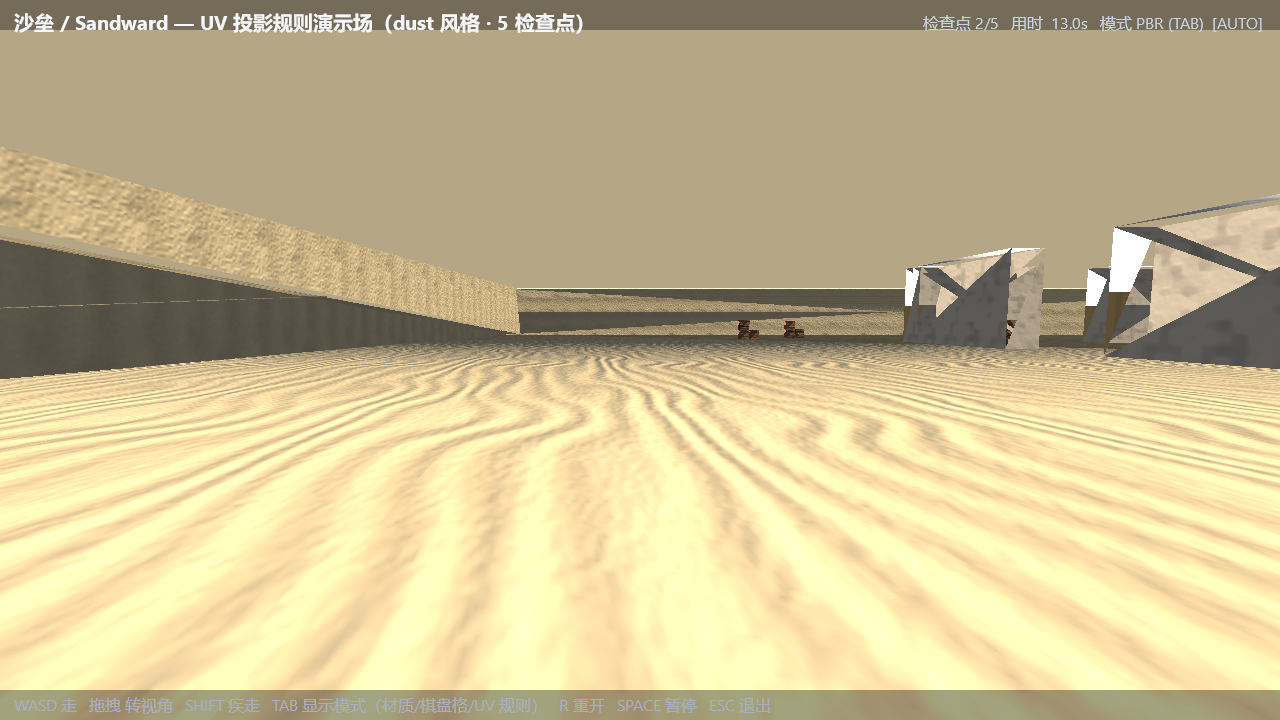
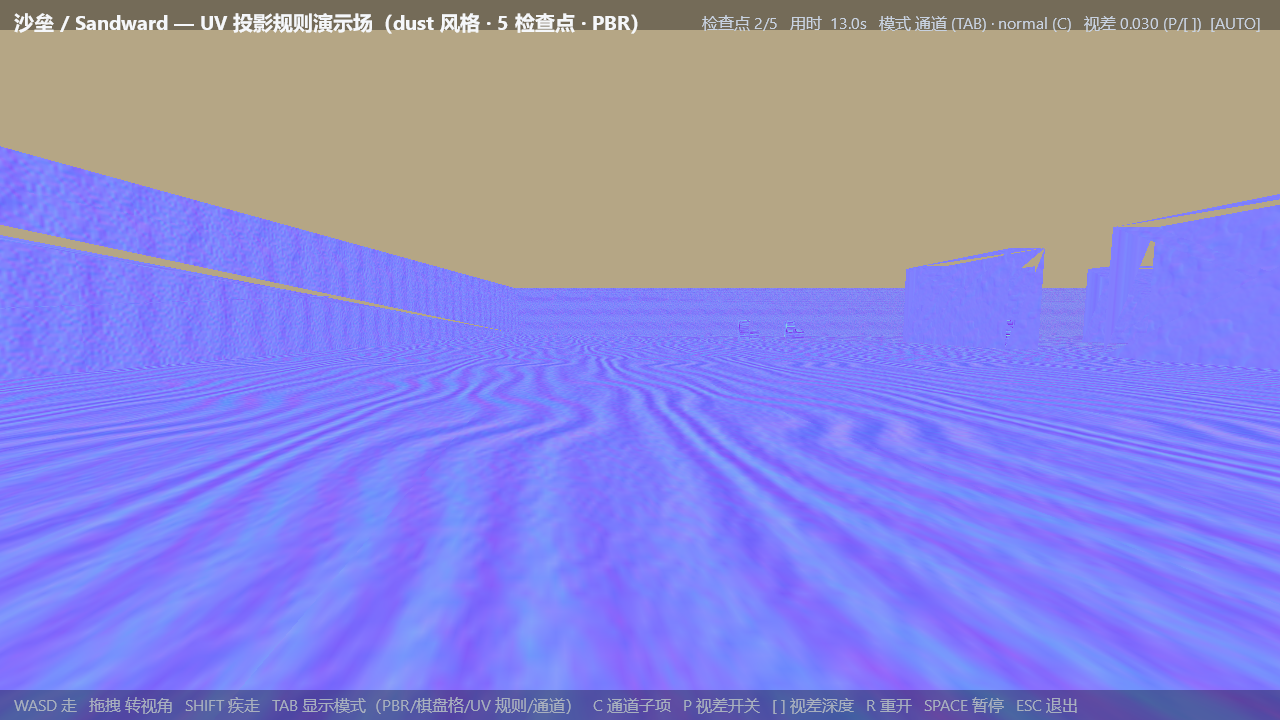
sandward: §19 Step 4 POM 视差（12 步陡峭+线性插值，P/[ ] 调）+ 通道视图模式（C 循环）+ POM 参考实现单测 + bench（开销≈无感）

diff --git a/world3d/presentation/sandward_scene.py b/world3d/presentation/sandward_scene.py
@@ -31,7 +31,10 @@ from pyglet.math import Mat4
 from world3d.engine import proctex
 from world3d.logic.sandward import build_geometry
 
-MODE_NAMES = ('PBR', '棋盘格', 'UV 规则')
+MODE_NAMES = ('PBR', '棋盘格', 'UV 规则', '通道')
+
+#: 通道视图子项（模式 3，C 键循环）
+CHANNEL_NAMES = ('albedo', 'normal', 'rough', 'metal', 'height')
 
 #: 沙漠太阳：方向（地表→太阳，已归一）、暖白光与半球环境双色
 SUN_DIR = (0.42, 0.78, 0.28)
@@ -93,7 +96,8 @@ uniform sampler2D u_albedo;
 uniform sampler2D u_normal;
 uniform sampler2D u_mr;
 uniform int u_mode;
-uniform int u_dbg;            // TEMP 调试：0=正常；1=albedo 2=nrm_ts 3=mr 4=NoL 5=N 6=hemi 7=hand
+uniform int u_chan;           // 通道视图子项（模式 3）
+uniform float u_pom;          // POM 深度（0 = 关；贴图宽度比例，推荐 0.02~0.04）
 uniform vec2 u_cell_pad;
 uniform vec3 u_cam_pos;
 uniform vec3 u_sun_dir;
@@ -120,13 +124,55 @@ vec3 f_schlick(float u, vec3 f0) {
     return f0 + (vec3(1.0) - f0) * pow(1.0 - u, 5.0);
 }
 
-void main() {
-    vec2 t = fract(v_uv);
-    vec2 auv = mix(v_cell.xy + u_cell_pad, v_cell.zw - u_cell_pad, t);
+// ---- 图集采样坐标（格内平铺 t → 格矩形 mix + 半像素内缩）----
+vec2 atlas_uv(vec2 uv) {
+    vec2 t = fract(uv);
+    return mix(v_cell.xy + u_cell_pad, v_cell.zw - u_cell_pad, t);
+}
 
+// 高度场采样（normal.A，§19 声明性挪用）
+float height_at(vec2 uv) {
+    return texture(u_normal, atlas_uv(uv)).a;
+}
+
+// ---- POM：陡峭视差 12 步 + 步内线性插值（贴图数空间直接位移）----
+vec2 pom_uv(vec2 uv, vec3 vts) {
+    const int STEPS = 12;
+    float layer_step = 1.0 / float(STEPS);
+    // 掠射角 clamp：|z| 太小会让步长爆掉（穿帮来源）
+    vec2 delta = (vts.xy / max(vts.z, 0.22)) * (u_pom / float(STEPS));
+    float layer = 0.0;
+    vec2 cur = uv;
+    float h = height_at(cur);
+    for (int i = 0; i < STEPS; ++i) {
+        if (layer >= h) break;
+        cur -= delta;
+        h = height_at(cur);
+        layer += layer_step;
+    }
+    // 线性细化：在 (cur+delta, cur) 区间按高度差插值
+    float h_prev = height_at(cur + delta);
+    float layer_prev = layer - layer_step;
+    float denom = (h_prev - layer_prev) - (h - layer);
+    float w = abs(denom) < 1e-4 ? 0.5 : clamp((h_prev - layer_prev) / denom, 0.0, 1.0);
+    return mix(cur + delta, cur, w);
+}
+
+void main() {
     vec3 rgb;
     if (u_mode == 0) {
-        // ---- PBR：三通道采样 + GGX 直接光 + 半球环境 ----
+        // ---- PBR：三通道采样 + GGX 直接光 + 半球环境（+ 可选 POM 视差）----
+        vec3 N = normalize(v_n);
+        vec3 T = normalize(v_t);
+        vec3 B = normalize(cross(N, T) * v_hand);
+        vec3 V = normalize(u_cam_pos - v_wpos);
+        vec2 uv_tex = v_uv;
+        if (u_pom > 0.0) {
+            vec3 V_ts = vec3(dot(V, T), dot(V, B), dot(V, N));
+            uv_tex = pom_uv(v_uv, V_ts);
+        }
+        vec2 auv = atlas_uv(uv_tex);
+
         vec3 albedo = texture(u_albedo, auv).rgb;
         vec3 nrm_ts = texture(u_normal, auv).xyz * 2.0 - 1.0;
         vec4 mr = texture(u_mr, auv);
@@ -135,16 +181,12 @@ void main() {
         float ao = mr.r;
 
         // TBN：切线/手性由投影同源导出（+z 面 +1、-z 面 -1）
-        vec3 N = normalize(v_n);
-        vec3 T = normalize(v_t);
-        vec3 B = normalize(cross(N, T) * v_hand);
         vec3 n = normalize(mat3(T, B, N) * nrm_ts);
 
         // 顶点色（面明暗）降级为 AO 近似：轻调 albedo/环境，不承担光照
         float vao = dot(v_color.rgb, vec3(0.3333));
         albedo *= mix(0.90, 1.10, vao);
 
-        vec3 V = normalize(u_cam_pos - v_wpos);
         vec3 L = normalize(u_sun_dir);
         vec3 H = normalize(V + L);
         float NoL = max(dot(n, L), 0.0);
@@ -168,24 +210,25 @@ void main() {
         ambient *= mix(0.80, 1.0, vao) * ao;
 
         rgb = direct + ambient;
-        if (u_dbg == 1) rgb = albedo;
-        else if (u_dbg == 2) rgb = nrm_ts * 0.5 + 0.5;
-        else if (u_dbg == 3) rgb = mr.rgb;
-        else if (u_dbg == 4) rgb = vec3(NoL);
-        else if (u_dbg == 5) rgb = n * 0.5 + 0.5;
-        else if (u_dbg == 6) rgb = hemi;
-        else if (u_dbg == 7) rgb = vec3(v_hand * 0.5 + 0.5);
     } else if (u_mode == 1) {
         // 棋盘格：每半张贴图一个格（密度/扭曲/接缝目检）
         vec2 g = floor(v_uv * 2.0);
         float c = mod(g.x + g.y, 2.0);
         rgb = mix(vec3(0.86, 0.84, 0.80), vec3(0.16, 0.16, 0.18), c)
               * v_color.rgb;
-    } else {
+    } else if (u_mode == 2) {
         // UV 规则：贴图密度色阶（log2 映射，以 4 米/贴图为中位、约 ±2 倍跨度）
         float d = clamp(log2(v_extra / 4.0) * 0.5 + 0.5, 0.0, 1.0);
         rgb = mix(vec3(0.15, 0.40, 0.95), vec3(0.95, 0.72, 0.12), d);
         rgb *= 0.6 + 0.4 * v_color.rgb;
+    } else {
+        // 通道视图（C 键循环）：albedo / normal / rough / metal / height
+        vec2 auv = atlas_uv(v_uv);
+        if (u_chan == 0)      rgb = texture(u_albedo, auv).rgb;
+        else if (u_chan == 1) rgb = texture(u_normal, auv).rgb;
+        else if (u_chan == 2) rgb = vec3(texture(u_mr, auv).g);
+        else if (u_chan == 3) rgb = vec3(texture(u_mr, auv).b);
+        else                  rgb = vec3(texture(u_normal, auv).a);
     }
 
     float f = smoothstep(fog_near, fog_far, v_dist);
@@ -222,6 +265,8 @@ class SandRenderer:
             extra=('f', geo['extras']), normal=('f', geo['normals']),
             tangent=('f', geo['tangents']), hand=('f', geo['hands']))
         self.mode = 0
+        self.pom = 0.03                  # POM 深度（0=关；[ ] 键调整）
+        self.chan = 0
         self.program.use()
         self.program['u_cell_pad'] = pad
         self.program['u_albedo'] = 0
@@ -234,6 +279,16 @@ class SandRenderer:
     @property
     def mode_name(self):
         return MODE_NAMES[self.mode]
+
+    def set_pom(self, scale):
+        self.pom = max(0.0, min(0.08, float(scale)))
+
+    def set_chan(self, chan):
+        self.chan = chan % len(CHANNEL_NAMES)
+
+    @property
+    def chan_name(self):
+        return CHANNEL_NAMES[self.chan]
 
     def set_camera(self, x, y, z):
         self.cam = (float(x), float(y), float(z))
@@ -257,6 +312,8 @@ class SandRenderer:
         self.program.use()
         self.program['model'] = Mat4()
         self.program['u_mode'] = self.mode
+        self.program['u_chan'] = self.chan
+        self.program['u_pom'] = self.pom
         self.program['u_cam_pos'] = self.cam
         self.program['u_sun_dir'] = SUN_DIR
         self.program['u_sun_color'] = SUN_COLOR

diff --git a/examples/sandward.py b/examples/sandward.py
@@ -7,9 +7,10 @@
 mr=ORM，零外部素材），光照为 **GGX 直接光 + 半球环境 + 法线贴图**（TBN 切线
 由投影同源导出）。三种显示模式演示不同视角：
 
-* **PBR**——真实观感（三通道 PBR 光照）；
+* **PBR**——真实观感（三通道 PBR 光照 + 可选 POM 视差，P 开/[ ] 调深）；
 * **棋盘格**——目检 UV 密度/扭曲/接缝（片元程序化棋盘，不采纹理）；
-* **UV 规则**——按贴图密度着色阶（world units per UV，冷→暖）。
+* **UV 规则**——按贴图密度着色阶（world units per UV，冷→暖）；
+* **通道视图**——C 键循环 albedo / normal / rough / metal / height 分通道单看。
 
 操作：WASD 走   拖拽 转视角   SHIFT 疾走   TAB 显示模式   R 重开
       SPACE 暂停   ESC 退出
@@ -28,11 +29,12 @@ from world3d.logic.sandward import (EYE_H, SandwardKernel, SPRINT_SPEED,
                                     WALK_SPEED)
 from world3d.presentation.sandward_scene import SandRenderer
 
-TITLE = '沙垒 / Sandward — UV 投影规则演示场（dust 风格 · 5 检查点）'
-HELP = ('WASD 走   拖拽 转视角   SHIFT 疾走   TAB 显示模式（材质/棋盘格/UV 规则）'
-        '   R 重开   SPACE 暂停   ESC 退出')
+TITLE = '沙垒 / Sandward — UV 投影规则演示场（dust 风格 · 5 检查点 · PBR）'
+HELP = ('WASD 走   拖拽 转视角   SHIFT 疾走   TAB 显示模式（PBR/棋盘格/UV 规则/通道）'
+        '   C 通道子项   P 视差开关   [ ] 视差深度   R 重开   SPACE 暂停   ESC 退出')
 SHOTS = ((13.0, 'docs/sandward_01.png'),        # 西北角场（沿环线）
-         (32.0, 'docs/sandward_02.png'))        # 东环 / 东南角场
+         (32.0, 'docs/sandward_02.png'),        # 东环 / 东南角场
+         (25.5, 'docs/sandward_03.png'))        # 北环东行（开阔全景）
 
 
 class SandwardApp(EngineApp):
@@ -48,6 +50,21 @@ class SandwardApp(EngineApp):
                      or bool(getattr(self.args, 'shot', False)))
         self.yaw = 0.0                            # 面向 -z（中庭方向）
         self.keys = set()
+        # ---- 演示/截图专用开关（--flag）----
+        # 注意：EngineApp 在 __init__ 里已把 SHOTS 快照成 self._shots——
+        # 这里要覆盖**快照**，改类属性/self.SHOTS 都不生效。
+        for f in self.args.flags:
+            if f.startswith('chan') and f[4:].isdigit():
+                self.renderer.set_mode(3)
+                self.renderer.set_chan(int(f[4:]))
+                self._shots = [(16.0, 'docs/sandward_04.png')]
+            elif f == 'chan':
+                self.renderer.set_mode(3)
+            elif f == 'nopom':
+                self.renderer.set_pom(0.0)
+                self._shots = [(40.0, 'docs/sandward_06.png')]
+            elif f == 'pomshot':
+                self._shots = [(40.0, 'docs/sandward_05.png')]
         self.renderer.apply_projection(self.window.width, self.window.height)
 
     def _seed(self):
@@ -62,6 +79,13 @@ class SandwardApp(EngineApp):
         self.keys.add(symbol)
         if symbol == key.TAB:
             self.renderer.set_mode(self.renderer.mode + 1)
+        elif symbol == key.C:
+            self.renderer.set_chan(self.renderer.chan + 1)
+        elif symbol == key.P:
+            self.renderer.set_pom(0.0 if self.renderer.pom > 0.0 else 0.03)
+        elif symbol in (key.BRACKETLEFT, key.BRACKETRIGHT):
+            step = 0.005 if symbol == key.BRACKETRIGHT else -0.005
+            self.renderer.set_pom(max(0.0, self.renderer.pom + step))
         elif symbol == key.R:
             self.k.restart()
 
@@ -72,7 +96,11 @@ class SandwardApp(EngineApp):
         self.yaw -= dx * 0.0042
 
     def status_text(self):
-        return (f'{self.k.status()}   模式 {self.renderer.mode_name} (TAB)'
+        r = self.renderer
+        pom = f'{r.pom:.3f}' if r.pom > 0.0 else 'OFF'
+        chan = f' · {r.chan_name} (C)' if r.mode == 3 else ''
+        return (f'{self.k.status()}   模式 {r.mode_name} (TAB){chan}'
+                f'   视差 {pom} (P/[ ])'
                 f'{"  [AUTO]" if self.auto else ""}'
                 f'{"  [PAUSED]" if self.paused else ""}')
 

diff --git a/tests/test_sandward.py b/tests/test_sandward.py
@@ -186,6 +186,71 @@ def test_geometry_tangents():
           f'偏差 <{max(worst_t, worst_b):.1e}）')
 
 
+def _pom_reference(uv, vts, depth, height_fn, steps=12):
+    """POM 参考实现（**与沙垒 shader 同式**：陡峭视差 + 步内线性插值）。
+
+    抄自 ``presentation/sandward_scene.py`` 的 GLSL ``pom_uv``——它存在的意义
+    是：① 日后改 shader 时本 py 版必须同步（不一样了 = 有一方漏改）；
+    ② 让 POM 的数值性质可单测（GLSL 没法在 CI 里跑）。
+    """
+    layer_step = 1.0 / steps
+    dz = max(vts[2], 0.22)
+    delta = (vts[0] / dz * depth / steps, vts[1] / dz * depth / steps)
+    layer = 0.0
+    cur = uv
+    h = height_fn(cur)
+    for _ in range(steps):
+        if layer >= h:
+            break
+        cur = (cur[0] - delta[0], cur[1] - delta[1])
+        h = height_fn(cur)
+        layer += layer_step
+    h_prev = height_fn((cur[0] + delta[0], cur[1] + delta[1]))
+    layer_prev = layer - layer_step
+    denom = (h_prev - layer_prev) - (h - layer)
+    if abs(denom) < 1e-4:
+        w = 0.5
+    else:
+        w = max(0.0, min(1.0, (h_prev - layer_prev) / denom))
+    # mix(cur + delta, cur, w) = (cur + delta)(1-w) + cur·w = cur + delta(1-w)
+    return (cur[0] + delta[0] * (1.0 - w),
+            cur[1] + delta[1] * (1.0 - w))
+
+
+def test_pom_reference():
+    """§19.7 验收 1：POM 参考实现数值性质。"""
+    depth = 0.03
+    flat_full = lambda _uv: 1.0        # noqa: E731  满高（表面无凹陷）
+    flat_gone = lambda _uv: 0.0        # noqa: E731  谷底
+    # ① 垂直视线：零位移（不论高度场）
+    for hf in (flat_full, flat_gone):
+        u, v = _pom_reference((3.7, 2.1), (0.0, 0.0, 1.0), depth, hf)
+        assert abs(u - 3.7) < 1e-12 and abs(v - 2.1) < 1e-12, '垂直视线必须零偏移'
+    # ② 谷底（h=0）：视线直达，零位移
+    u, v = _pom_reference((3.7, 2.1), (0.6, 0.0, 0.8), depth, flat_gone)
+    assert abs(u - 3.7) < 1e-12 and abs(v - 2.1) < 1e-12, 'h=0 应零位移'
+    # ③ 斜视线 + 满高：位移朝 -vts.xy 方向（视线水平分量的反方向）
+    u, v = _pom_reference((3.7, 2.1), (0.6, 0.0, 0.8), depth, flat_full)
+    assert u < 3.7, 'u 应向视线水平分量的反方向（-x）位移'
+    assert abs(v - 2.1) < 1e-12, '视线无 y 分量则 v 不动'
+    # ④ 掠射 clamp：vts.z 极小时位移受 0.22 下限约束（不爆掉）
+    u_s, _ = _pom_reference((3.7, 2.1), (0.99, 0.0, 0.02), depth, flat_full)
+    u_c = _pom_reference((3.7, 2.1), (0.99, 0.0, 0.22), depth, flat_full)[0]
+    assert abs(u_s - u_c) < 1e-12, '掠射角应被 clamp 到同一结果（穿帮防护）'
+    max_shift = 0.99 / 0.22 * depth      # 12 步满载的位移上限（|vts.xy|/clamp*depth）
+    assert 3.7 - u_s < max_shift + 1e-9, '位移不得超过步长上限'
+    # ⑤ 半高平坦场（h=0.5）：位移量 ≈ 走完 0.5 层深对应的水平偏移
+    #    = 0.5 · depth · |vts.xy|/vts.z（± 一个步长的插值余量）
+    half = lambda _uv: 0.5             # noqa: E731
+    u, v = _pom_reference((3.7, 2.1), (0.6, 0.0, 0.8), depth, half)
+    expect = 0.5 * depth * (0.6 / 0.8)
+    got = 3.7 - u
+    assert abs(got - expect) < depth * 0.6 / 0.8 / 12 + 1e-9, \
+        f'半高场位移 {got:.5f} 应 ≈ {expect:.5f}'
+    assert abs(v - 2.1) < 1e-12, '视线无 y 分量则 v 不动'
+    print('  ok: POM 参考实现（垂直/谷底零偏移、斜视反向位移、掠射 clamp、半高位移量）')
+
+
 def main():
     print('test_arena_brushes_sane');   test_arena_brushes_sane()
     print('test_route_clear');          test_route_clear()
@@ -193,6 +258,7 @@ def main():
     print('test_collision_and_slide');  test_collision_and_slide()
     print('test_geometry_uv_density');  test_geometry_uv_density()
     print('test_geometry_tangents');    test_geometry_tangents()
+    print('test_pom_reference');        test_pom_reference()
     print('ALL_SANDWARD_TESTS_PASSED')
 
 

diff --git a/examples/README.md b/examples/README.md
@@ -80,7 +80,7 @@ python scripts\verify_demos.py --only boids,water  只验指定 demo
 | `stillhall.py` | 交互 | **《静馆 / Stillhall》**（§14 **节点式漫游解谜**，致敬 Myst 1993）：固定机位 + **点击热点换景/取物/开机关**（非自由 WASD）+ 物品栏 + **谜题状态机**（顺序解锁链：取钥 → 点灯得齿轮 → 开终局门）；场景数据走 **JSON（与 scene_viewer / LLM 场景生成工作流同 schema）**且支持热重载（坏 JSON 拒收保旧）；`1` 键自动推进；**`--flag auto[,pace=0.9]` 循环重放**（录成片用 —— 默认跑完 5 步就静止） | `stillhall_01..02.png` |
 | `voidward.py` | 交互 | **《星阑 / Voidward》**（§15 **Elite 式太空贸易**，四份 note 里范围最大）：1 星系（恒星 + 3 行星 + 1 空间站）+ 5 种货（价格 = 基准 × 供需正弦 + **种子驱动事件冲击**，确定性可复现）+ **惯性飞行**（松油门滑行）+ 海盗拦截战（击退有赏金）+ 舱位/炮 2 级升级；资产达标 10000 → won；WASD 推进、空格开火、B/V 买卖、N 升级、G 自动贸易 | `voidward_01..02.png` |
 | `liminall.py` | 交互 | **《阈廊 / Liminall》**（§17 **后室循环走廊恐怖**，机制致敬 P.T. 2014）：**三幕混合**（L 形循环走廊 → noclip 坠入程序化后室迷宫 → 回走廊终局）+ **8 圈重装修**（事件表驱动：椅子/垂灯/涂鸦/红潮/走廊拉伸/假崩溃）+ **分阶段威胁**（纯氛围→实体远影→stalk 抓杀回圈） + **手电驱退**（L7/L8 照它它会退——自保核心手段）+ 3 谜题（灯语镜柜/涂鸦配电箱/终局电话三条件） + **非线性空间**（直线走回原点）+ 收音机杂音字幕 + 后室音床（荧光灯嗡鸣，逼近距离抬升）；内核 `games/` 外的 kkrieger 家族形态：`logic/liminall.py` + `presentation/liminall_{scene,app}.py` + `logic/liminall_audio.py`（全合成零素材） | `liminall_01..02.png` |
-| `sandward.py` | 交互 | **《沙垒 / Sandward》**（§18 **UV 投影规则演示场**）：程序化重建的 dust 风格**块状竞技场**（中庭 + 四角场 + 环线，零外部素材）——**每一面墙/箱/地的 UV 由 `engine/texproj` 的世界投影规则生成**（面主导轴 + 五档贴图密度 3.0/4.0/4.5/5.0/5.5 米 = CS2 实测档 ÷32 等比缩放）；材质走 `proctex` 程序化 5 格图集（片元 `fract` 格内平铺 + 半像素内缩防渗色）；**Tab 三显示模式**（真实材质 / 棋盘格 UV 目检 / 密度色阶）；5 检查点巡游 + 碰撞分轴滑动 + auto 回放 | `sandward_01..02.png` |
+| `sandward.py` | 交互 | **《沙垒 / Sandward》**（§18 **UV 投影规则演示场**）：程序化重建的 dust 风格**块状竞技场**（中庭 + 四角场 + 环线，零外部素材）——**每一面墙/箱/地的 UV 由 `engine/texproj` 的世界投影规则生成**（面主导轴 + 五档贴图密度 3.0/4.0/4.5/5.0/5.5 米 = CS2 实测档 ÷32 等比缩放）；材质走 `proctex` 程序化 5 格图集（片元 `fract` 格内平铺 + 半像素内缩防渗色）；**PBR 三通道图集**（albedo / normal+高度 / mr=ORM；GGX 直接光 + 半球环境 + 法线贴图，切线由投影同源导出）+ **POM 视差**（12 步陡峭视差，P/[ ] 开关调深）；**Tab 四显示模式**（PBR / 棋盘格 / 密度色阶 / 通道视图-C 循环）；5 检查点巡游 + 碰撞分轴滑动 + auto 回放 | `sandward_01..06.png` |
 | `pulsefall.py` | 交互 | **《落音 / Pulsefall》**（§16 **下落式音击**）：4 轨道（DFJK）+ 3 谱面（BPM 90/120/150，**种子复现**）+ 判定 3 档（PERFECT ±40ms / GOOD ±90ms / MISS）+ 血量与连击得分 + 结算（P/G/M + 准确率 + 最大连击）；音乐由 **audio 核按谱面程序化合成**（三层：低音/和弦/主旋律）；F4/F5 offset 校准、G 自动演奏 | `pulsefall_01..02.png` |
 | `director.py` | 工具 | **可视化导演台（③）**：把关键帧系统（`engine/shot.py` + `engine/timeline.py`）和 `TimelineUI` 串成"**编排 → 预览 → 导出 → 录制**"闭环。三个编辑目标用 `T` 循环：`$camera`（position/target/fov）、`$env`（sun_intensity/sun_dir/ibl_intensity，**真·灯光演出**，渲染器每帧 apply）、场景节点（TRS，键盘微调）。`K` 记帧 / `DEL` 删帧 / `[ ]` 选通道 / `I` 换插值 / `M` 加幕 / `F2` 导出演出 JSON / `O` 载入 / `R` 重载场景；右侧**关键帧检察器**显示每通道的插值与键刻度（可点行选中、点键 seek）；内置默认演出「绕祭坛闭环环绕 + 主体自转 + 太阳随相机扫过」，`--shot-json <path>` 可回放导出的运镜 | `director_a..d.png` |
 
